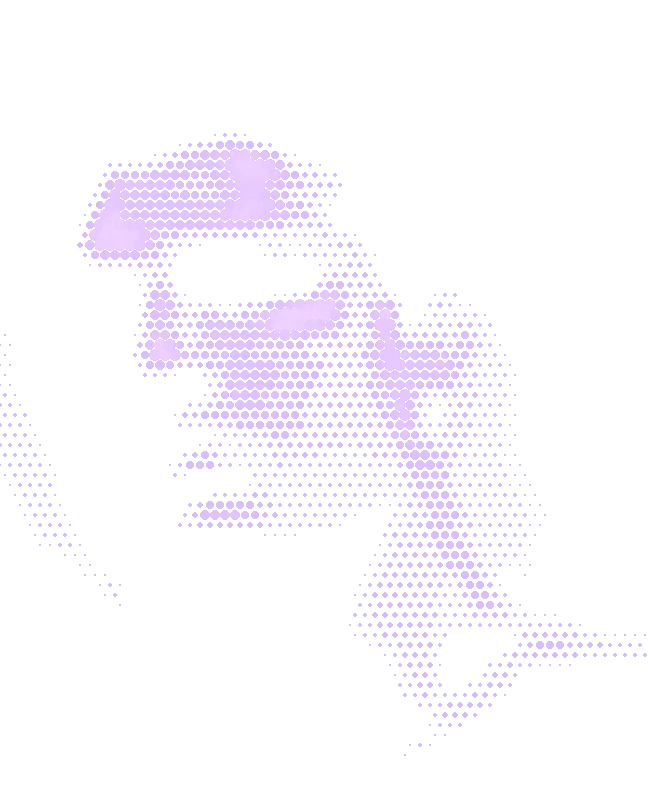
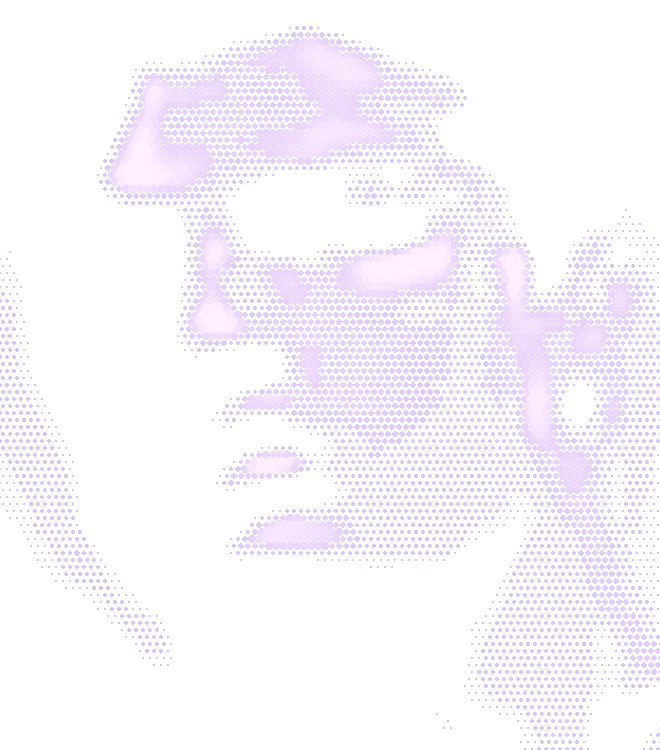
Retrato do CR7 mais marcado e centralizado atrás do copo
Pontos mais finos e com mais contraste; rosto centralizado atrás do
copo, com testa e olhos acima da borda (computador e celular).

Changed region(s): [[0.1235, 0.0307, 1.0, 1.0], [0.0, 0.3987, 0.2469, 0.8893], [0.9877, 0.9813, 1.0, 1.0]]

diff --git a/index.html b/index.html
@@ -158,10 +158,10 @@ button{background:none;border:0;cursor:pointer}
 .bchip[aria-pressed=true]{background:#fff;color:var(--bg)}
 /* referência CR7 atrás do copo: retrato em pontos, discreto */
 .cr7bg{position:absolute;inset:0;pointer-events:none;z-index:0}
-.cr7bg img{position:absolute;right:-17%;top:-6%;width:min(74%,460px);height:auto;opacity:.72;mix-blend-mode:screen;
-  -webkit-mask-image:linear-gradient(to bottom,#000 55%,transparent 95%);mask-image:linear-gradient(to bottom,#000 55%,transparent 95%);
+.cr7bg img{position:absolute;left:50%;top:-84px;width:min(150%,600px);height:auto;translate:-50% 0;opacity:.88;mix-blend-mode:screen;
+  -webkit-mask-image:linear-gradient(to bottom,#000 58%,transparent 96%);mask-image:linear-gradient(to bottom,#000 58%,transparent 96%);
   animation:cr7float 9s ease-in-out infinite}
-@keyframes cr7float{50%{transform:translateY(-10px);opacity:.82}}
+@keyframes cr7float{50%{transform:translateY(-8px);opacity:1}}
 .cr7bg .c7t{position:absolute;right:2%;bottom:16%;font-family:var(--mono);font-size:11px;letter-spacing:6px;color:rgba(216,180,254,.5)}
 
 @media (max-width:900px){
@@ -176,7 +176,8 @@ button{background:none;border:0;cursor:pointer}
   .stat span{font-size:9.5px}
 
   .bstage .vessel{width:min(70%,230px)}
-  .cr7bg img{right:-24%;top:-9%;width:min(80%,330px);opacity:.78}
+  .stage{min-height:740px;padding-top:156px}
+  .cr7bg img{top:-6px;width:min(98%,350px)}
 }
 
 /* marquee */
@@ -571,7 +572,7 @@ footer .legal{grid-column:1/-1;border-top:1px solid var(--line);padding-top:22px
       <div class="hud h3"><i></i><span>Açúcar <b>0 g</b></span></div>
       <div class="hud h4 r"><span>Vit <b>B + C</b> · eletrólitos</span><i></i></div>
       <div class="cr7bg" aria-hidden="true">
-        <img src="assets/cr7-retrato.webp" alt="" width="648" height="792">
+        <img src="assets/cr7-retrato.webp" alt="" width="660" height="750">
         <span class="c7t">CR7 · DRIVE</span>
       </div>
       <div class="vwrap" id="vwrap"><div id="heroVessel"></div></div>
